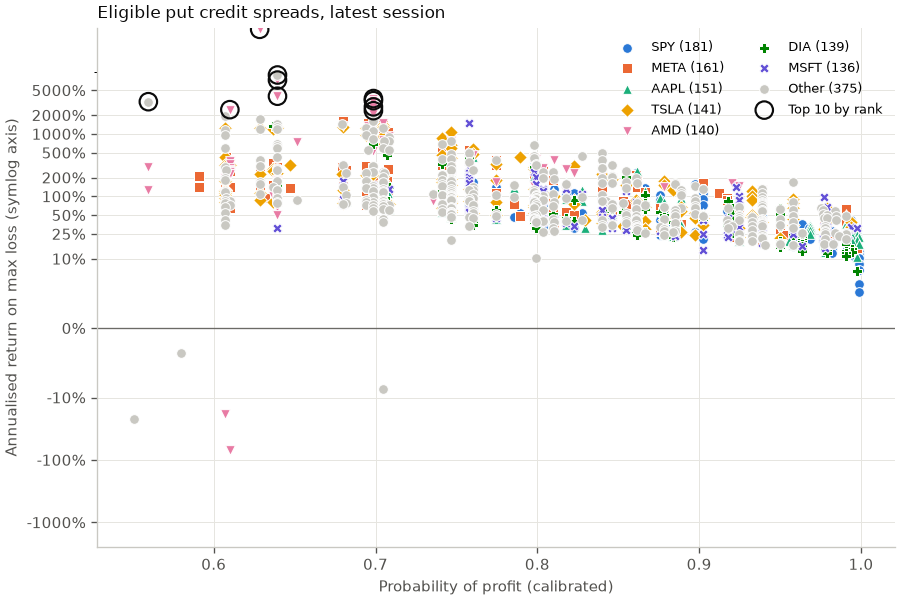
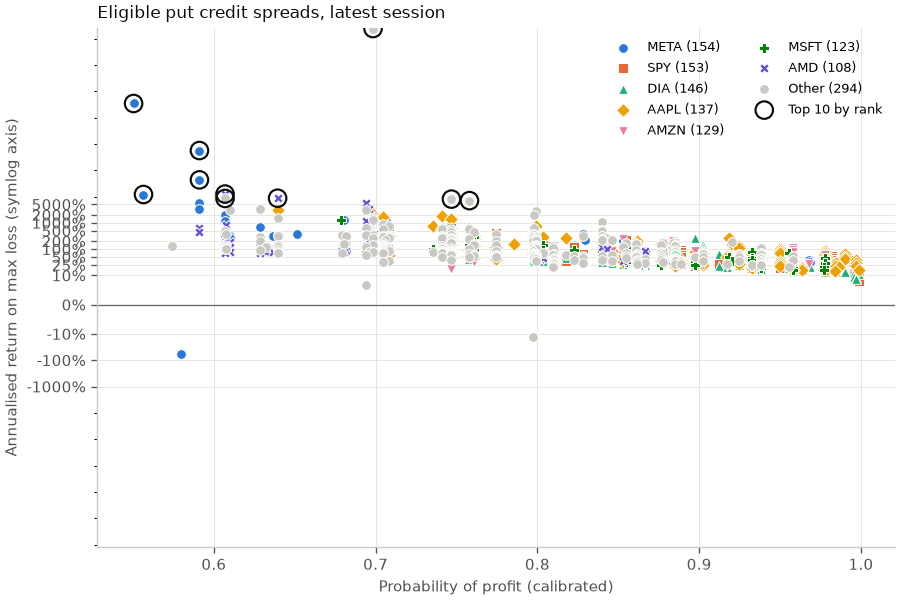
chore(results): nightly refresh through 2026-11-16

diff --git a/docs/results.md b/docs/results.md
@@ -1,24 +1,24 @@
 # Results
 
-Source: the `gold` schema of the DuckDB file built by dbt; spreads are scored as of the 2026-11-13 session.
+Source: the `gold` schema of the DuckDB file built by dbt; spreads are scored as of the 2026-11-16 session.
 
 ## Data coverage
 
 | Underlying | First session | Last session | Sessions | Chain snapshots | Settled snapshots | Predictions |
 | --- | ---: | ---: | ---: | ---: | ---: | ---: |
-| AAPL | 2020-01-06 | 2026-11-13 | 1,221 | 3,869 | 3,773 | 47,779 |
-| AMD | 2020-01-06 | 2026-11-13 | 1,218 | 3,863 | 3,766 | 47,799 |
-| AMZN | 2020-01-06 | 2026-11-13 | 1,217 | 3,858 | 3,762 | 47,472 |
-| DIA | 2020-01-06 | 2026-11-13 | 1,219 | 3,877 | 3,763 | 47,223 |
-| GOOGL | 2020-01-06 | 2026-11-13 | 1,212 | 3,844 | 3,748 | 47,335 |
-| META | 2022-07-01 | 2026-11-13 | 852 | 2,762 | 2,665 | 33,568 |
-| MSFT | 2020-01-06 | 2026-11-13 | 1,207 | 3,823 | 3,728 | 47,059 |
-| NVDA | 2020-01-06 | 2026-11-13 | 1,216 | 3,846 | 3,752 | 46,919 |
-| SPY | 2020-01-06 | 2026-11-13 | 1,209 | 3,873 | 3,769 | 46,787 |
-| TSLA | 2021-01-04 | 2026-11-13 | 1,067 | 3,401 | 3,305 | 41,785 |
-| XLF | 2020-01-06 | 2026-11-13 | 1,209 | 3,846 | 3,747 | 47,419 |
+| AAPL | 2020-01-06 | 2026-11-16 | 1,222 | 3,873 | 3,774 | 47,791 |
+| AMD | 2020-01-06 | 2026-11-16 | 1,219 | 3,867 | 3,767 | 47,799 |
+| AMZN | 2020-01-06 | 2026-11-16 | 1,218 | 3,862 | 3,764 | 47,498 |
+| DIA | 2020-01-06 | 2026-11-16 | 1,220 | 3,881 | 3,763 | 47,223 |
+| GOOGL | 2020-01-06 | 2026-11-16 | 1,213 | 3,848 | 3,750 | 47,361 |
+| META | 2022-07-01 | 2026-11-16 | 853 | 2,766 | 2,667 | 33,585 |
+| MSFT | 2020-01-06 | 2026-11-16 | 1,208 | 3,827 | 3,729 | 47,067 |
+| NVDA | 2020-01-06 | 2026-11-16 | 1,217 | 3,850 | 3,754 | 46,945 |
+| SPY | 2020-01-06 | 2026-11-16 | 1,210 | 3,877 | 3,770 | 46,794 |
+| TSLA | 2021-01-04 | 2026-11-16 | 1,068 | 3,405 | 3,306 | 41,798 |
+| XLF | 2020-01-06 | 2026-11-16 | 1,210 | 3,850 | 3,748 | 47,432 |
 
-In total: 1,873,088 quotes on 536,340 contracts, in 40,862 chain snapshots (an underlying, a trade date and an expiration).
+In total: 1,875,134 quotes on 537,106 contracts, in 40,906 chain snapshots (an underlying, a trade date and an expiration).
 
 ## Snapshot exclusions
 
@@ -26,8 +26,8 @@ Every chain snapshot is classified; only `ok` snapshots produce predictions. Sna
 
 | Status | Snapshots | Share | Meaning |
 | --- | ---: | ---: | --- |
-| `ok` | 39,543 | 96.8% | enters the calibration sample |
-| `unsettled` | 1,084 | 2.7% | the expiration is after the last priced session, so there is no outcome yet |
+| `ok` | 39,557 | 96.7% | enters the calibration sample |
+| `unsettled` | 1,114 | 2.7% | the expiration is after the last priced session, so there is no outcome yet |
 | `too_few_puts` | 6 | 0.0% | fewer than 4 usable puts (a positive bid and an ask at or above the bid) |
 | `no_close` | 15 | 0.0% | no official close of the underlying on the trade date |
 | `split_in_window` | 214 | 0.5% | a split between the trade date and settlement (closes are unadjusted) |
@@ -39,16 +39,16 @@ Each year's map is fitted only on predictions that had expired before 1 January 
 | Metric | Risk-neutral | Calibrated | Change |
 | --- | ---: | ---: | ---: |
 | Brier score | 0.1266 | 0.1292 | +0.0026 |
-| Log loss (nats) | 0.3918 | 0.3965 | +0.0046 |
-| Expected calibration error | 0.0333 | 0.0181 | -0.0153 |
+| Log loss (nats) | 0.3919 | 0.3965 | +0.0047 |
+| Expected calibration error | 0.0333 | 0.0181 | -0.0152 |
 
-Brier change +0.0026 (95% cluster-bootstrap interval -0.0001 to +0.0056, resampling expiration dates; negative means calibration helped) over 453,612 predictions, 35,629 snapshots and 892 expiration clusters. Predictions that resolve on the same date share one market move, so the effective sample is closer to the number of clusters than to the number of predictions.
+Brier change +0.0026 (95% cluster-bootstrap interval -0.0004 to +0.0052, resampling expiration dates; negative means calibration helped) over 453,760 predictions, 35,642 snapshots and 893 expiration clusters. Predictions that resolve on the same date share one market move, so the effective sample is closer to the number of clusters than to the number of predictions.
 
 ### By days to expiration
 
 | DTE bucket | Predictions | Brier raw | Brier calibrated | ECE raw | ECE calibrated |
 | --- | ---: | ---: | ---: | ---: | ---: |
-| <=20d | 144,081 | 0.1020 | 0.1046 | 0.0184 | 0.0227 |
+| <=20d | 144,229 | 0.1021 | 0.1047 | 0.0183 | 0.0228 |
 | 21-35d | 144,654 | 0.1277 | 0.1310 | 0.0299 | 0.0234 |
 | 36-50d | 85,984 | 0.1475 | 0.1493 | 0.0460 | 0.0149 |
 | >50d | 78,893 | 0.1466 | 0.1489 | 0.0540 | 0.0140 |
@@ -57,17 +57,17 @@ Brier change +0.0026 (95% cluster-bootstrap interval -0.0001 to +0.0056, resampl
 
 | Underlying | Predictions | Brier raw | Brier calibrated | ECE raw | ECE calibrated |
 | --- | ---: | ---: | ---: | ---: | ---: |
-| AAPL | 42,793 | 0.1188 | 0.1196 | 0.0426 | 0.0156 |
+| AAPL | 42,805 | 0.1188 | 0.1196 | 0.0426 | 0.0156 |
 | AMD | 42,373 | 0.1813 | 0.1858 | 0.0385 | 0.0419 |
-| AMZN | 42,110 | 0.1348 | 0.1398 | 0.0282 | 0.0276 |
+| AMZN | 42,136 | 0.1348 | 0.1398 | 0.0282 | 0.0275 |
 | DIA | 41,828 | 0.0624 | 0.0629 | 0.0263 | 0.0157 |
-| GOOGL | 42,055 | 0.1330 | 0.1330 | 0.0490 | 0.0161 |
-| META | 33,568 | 0.1538 | 0.1563 | 0.0415 | 0.0183 |
-| MSFT | 41,951 | 0.1185 | 0.1221 | 0.0213 | 0.0271 |
-| NVDA | 41,515 | 0.1586 | 0.1582 | 0.0740 | 0.0176 |
-| SPY | 41,502 | 0.0687 | 0.0696 | 0.0268 | 0.0107 |
-| TSLA | 41,785 | 0.1817 | 0.1913 | 0.0094 | 0.0638 |
-| XLF | 42,132 | 0.0857 | 0.0871 | 0.0225 | 0.0205 |
+| GOOGL | 42,081 | 0.1329 | 0.1330 | 0.0490 | 0.0160 |
+| META | 33,585 | 0.1537 | 0.1562 | 0.0415 | 0.0182 |
+| MSFT | 41,959 | 0.1185 | 0.1221 | 0.0213 | 0.0271 |
+| NVDA | 41,541 | 0.1588 | 0.1585 | 0.0735 | 0.0179 |
+| SPY | 41,509 | 0.0687 | 0.0696 | 0.0268 | 0.0108 |
+| TSLA | 41,798 | 0.1817 | 0.1913 | 0.0094 | 0.0638 |
+| XLF | 42,145 | 0.0857 | 0.0871 | 0.0225 | 0.0205 |
 
 ### By fold year
 
@@ -78,7 +78,7 @@ Brier change +0.0026 (95% cluster-bootstrap interval -0.0001 to +0.0056, resampl
 | 2023 | 61,525 | 0.1181 | 0.1135 | 0.0964 | 0.0768 |
 | 2024 | 70,651 | 0.1158 | 0.1123 | 0.0534 | 0.0163 |
 | 2025 | 107,205 | 0.1248 | 0.1232 | 0.0371 | 0.0118 |
-| 2026 | 102,019 | 0.1265 | 0.1267 | 0.0245 | 0.0209 |
+| 2026 | 102,167 | 0.1266 | 0.1267 | 0.0244 | 0.0209 |
 
 ## Reliability
 
@@ -86,18 +86,18 @@ Brier change +0.0026 (95% cluster-bootstrap interval -0.0001 to +0.0056, resampl
 
 | Bin | n raw | Predicted raw | Realised raw | n calibrated | Predicted calibrated | Realised calibrated |
 | --- | ---: | ---: | ---: | ---: | ---: | ---: |
-| 0.0-0.1 | 137,798 | 0.0363 | 0.0190 | 168,882 | 0.0317 | 0.0394 |
-| 0.1-0.2 | 56,308 | 0.1469 | 0.1127 | 62,727 | 0.1481 | 0.1923 |
-| 0.2-0.3 | 40,594 | 0.2471 | 0.2078 | 39,549 | 0.2568 | 0.2829 |
-| 0.3-0.4 | 33,154 | 0.3502 | 0.2991 | 30,662 | 0.3606 | 0.4044 |
-| 0.4-0.5 | 35,692 | 0.4517 | 0.4051 | 25,062 | 0.4464 | 0.4707 |
-| 0.5-0.6 | 27,710 | 0.5529 | 0.5008 | 28,634 | 0.5471 | 0.5684 |
-| 0.6-0.7 | 33,343 | 0.6504 | 0.5971 | 32,576 | 0.6544 | 0.6609 |
-| 0.7-0.8 | 31,028 | 0.7481 | 0.6927 | 21,154 | 0.7503 | 0.7537 |
-| 0.8-0.9 | 25,095 | 0.8481 | 0.8186 | 16,689 | 0.8509 | 0.8640 |
-| 0.9-1.0 | 32,890 | 0.9620 | 0.9564 | 27,677 | 0.9674 | 0.9677 |
+| 0.0-0.1 | 137,848 | 0.0363 | 0.0191 | 168,934 | 0.0317 | 0.0394 |
+| 0.1-0.2 | 56,322 | 0.1469 | 0.1128 | 62,750 | 0.1481 | 0.1923 |
+| 0.2-0.3 | 40,606 | 0.2471 | 0.2078 | 39,559 | 0.2568 | 0.2829 |
+| 0.3-0.4 | 33,163 | 0.3502 | 0.2991 | 30,670 | 0.3606 | 0.4044 |
+| 0.4-0.5 | 35,700 | 0.4517 | 0.4050 | 25,069 | 0.4464 | 0.4707 |
+| 0.5-0.6 | 27,719 | 0.5529 | 0.5008 | 28,640 | 0.5471 | 0.5684 |
+| 0.6-0.7 | 33,351 | 0.6504 | 0.5971 | 32,588 | 0.6544 | 0.6610 |
+| 0.7-0.8 | 31,038 | 0.7481 | 0.6928 | 21,161 | 0.7504 | 0.7538 |
+| 0.8-0.9 | 25,108 | 0.8481 | 0.8187 | 16,698 | 0.8509 | 0.8641 |
+| 0.9-1.0 | 32,905 | 0.9620 | 0.9564 | 27,691 | 0.9674 | 0.9677 |
 
-## Top 10 to enter (2026-11-13)
+## Top 10 to enter (2026-11-16)
 
 Passes every guard (eligible, calibrated POP ≥ 65%, credit ≥ $0.25, natural credit ≥ 50% of mid with positive natural edge, inside quoted strikes, no tail flags), 45 to 69 days to expiry, short strike 95% to below 100% of the close, ranked by annualised natural return with the POP shrunk halfway toward the market-implied POP, then annualised return on max loss and reward/risk.
 
@@ -105,75 +105,75 @@ On the rule lab's 2025-2026 hold-out, measured on 2026-10-19, this rule made 4,0
 
 | Rank | Underlying | Session | Expiration | DTE | Short/long | Natural credit | Mid credit | POP calibrated | Expected return on max loss | Annualised return on max loss | Edge (% of mid) | Reward/risk | Entry score (annualised) |
 | --- | ---: | ---: | ---: | ---: | ---: | ---: | ---: | ---: | ---: | ---: | ---: | ---: | ---: |
-| 1 | AMZN | 2026-11-13 | 2027-01-15 | 63 | 265/250 | 5.45 | 5.60 | 68.1% | 10.37% | 77.2% | 16.4% | 0.14 | 16.9% |
-| 2 | AMZN | 2026-11-13 | 2027-01-15 | 63 | 265/245 | 6.80 | 6.97 | 69.9% | 9.79% | 71.8% | 17.1% | 0.14 | 13.9% |
-| 3 | AMZN | 2026-11-13 | 2027-01-15 | 63 | 260/250 | 3.30 | 3.45 | 70.5% | 10.58% | 79.1% | 18.9% | 0.15 | 8.8% |
-| 4 | AMZN | 2026-11-13 | 2027-01-15 | 63 | 260/240 | 5.75 | 5.93 | 74.1% | 8.71% | 62.2% | 19.2% | 0.14 | 8.3% |
-| 5 | SPY | 2026-11-13 | 2027-01-15 | 63 | 740/730 | 2.29 | 2.41 | 79.9% | 6.76% | 46.1% | 19.4% | 0.12 | 6.2% |
-| 6 | SPY | 2026-11-13 | 2027-01-15 | 63 | 745/725 | 4.73 | 4.87 | 78.6% | 6.96% | 47.7% | 19.7% | 0.13 | 6.0% |
-| 7 | AMZN | 2026-11-13 | 2027-01-15 | 63 | 265/240 | 7.90 | 8.07 | 70.5% | 8.91% | 63.9% | 17.4% | 0.14 | 5.9% |
-| 8 | SPY | 2026-11-13 | 2027-01-15 | 63 | 745/730 | 3.72 | 3.86 | 77.5% | 7.08% | 48.6% | 18.7% | 0.12 | 5.3% |
-| 9 | SPY | 2026-11-13 | 2027-01-15 | 63 | 730/710 | 3.34 | 3.44 | 85.3% | 5.34% | 35.2% | 22.8% | 0.12 | 5.2% |
-| 10 | AAPL | 2026-11-13 | 2027-01-15 | 63 | 355/345 | 3.34 | 3.57 | 69.9% | 10.66% | 79.9% | 18.1% | 0.15 | 4.3% |
+| 1 | GOOGL | 2026-11-16 | 2027-01-15 | 60 | 280/260 | 6.20 | 6.62 | 74.1% | 9.19% | 70.8% | 17.4% | 0.14 | 13.8% |
+| 2 | SPY | 2026-11-16 | 2027-01-15 | 60 | 735/725 | 2.91 | 3.02 | 74.7% | 8.70% | 66.1% | 18.8% | 0.13 | 12.3% |
+| 3 | GOOGL | 2026-11-16 | 2027-01-15 | 60 | 280/255 | 7.45 | 7.90 | 74.7% | 8.90% | 68.0% | 18.0% | 0.14 | 12.2% |
+| 4 | SPY | 2026-11-16 | 2026-12-31 | 45 | 725/718 | 1.63 | 1.71 | 79.9% | 6.63% | 68.4% | 19.1% | 0.12 | 11.0% |
+| 5 | SPY | 2026-11-16 | 2026-12-31 | 45 | 733/718 | 3.96 | 4.05 | 76.1% | 7.46% | 79.3% | 19.0% | 0.13 | 10.7% |
+| 6 | SPY | 2026-11-16 | 2027-01-15 | 60 | 735/720 | 4.20 | 4.30 | 74.7% | 8.52% | 64.4% | 19.7% | 0.14 | 8.7% |
+| 7 | META | 2026-11-16 | 2026-12-31 | 45 | 625/575 | 17.24 | 18.55 | 69.4% | 10.97% | 132.6% | 17.9% | 0.16 | 8.3% |
+| 8 | SPY | 2026-11-16 | 2027-01-15 | 60 | 710/695 | 2.48 | 2.56 | 86.1% | 5.32% | 37.1% | 23.1% | 0.12 | 8.1% |
+| 9 | SPY | 2026-11-16 | 2027-01-15 | 60 | 725/710 | 3.40 | 3.49 | 79.9% | 6.74% | 48.7% | 20.3% | 0.13 | 8.0% |
+| 10 | SPY | 2026-11-16 | 2026-12-31 | 45 | 718/710 | 1.57 | 1.64 | 82.8% | 6.29% | 64.1% | 22.7% | 0.13 | 8.0% |
 
 This is a ranking of a historical calibration, not trade advice: it orders spreads by what one pooled calibration map says happened on average, pulled halfway toward the probability the price implies, and that map is optimistic (see the caveats). Credits are dollars per share; the edge is the mid credit minus the calibrated fair credit, as a share of the mid credit; reward/risk is per trade; the entry score is the annualised return on max loss at the natural credit with that shrunk probability of profit, the number the rule ranks by.
 
-## Which structure serves each outcome (2026-11-13)
+## Which structure serves each outcome (2026-11-16)
 
 | Underlying | Expiry (DTE) | Up, above the 75th percentile | Up, moderately (55th to 85th) | Flat (25th to 75th) | Down, moderately (15th to 45th) | Down, below the 25th percentile | Big move, outside the 10th to 90th |
 | --- | --- | --- | --- | --- | --- | --- | --- |
-| AAPL | 2026-12-24 (41d) | long call `+1 C 380`, +353.9% | bull call spread `+1 C 365 / -1 C 380`, +101.4% | iron condor `-1 P 355 / +1 P 340 / -1 C 370 / +1 C 385`, +58.5% | iron condor `-1 P 340 / +1 P 330 / -1 C 360 / +1 C 370`, +83.3% | bear put spread `+1 P 350 / -1 P 330`, +187.2% | long strangle `+1 P 305 / +1 C 385`, +250.5% |
-| AMD | 2026-12-24 (41d) | long call `+1 C 600`, +300.7% | bull put spread `-1 P 585 / +1 P 535`, +107.0% | iron condor `-1 P 500 / +1 P 455 / -1 C 585 / +1 C 630`, +48.8% | iron condor `-1 P 440 / +1 P 400 / -1 C 535 / +1 C 575`, +84.9% | long put `+1 P 490`, +180.4% | long strangle `+1 P 455 / +1 C 600`, +204.3% |
-| AMZN | 2026-12-24 (41d) | long call `+1 C 290`, +348.2% | bull call spread `+1 C 265 / -1 C 290`, +104.3% | iron condor `-1 P 260 / +1 P 245 / -1 C 285 / +1 C 300`, +56.7% | iron condor `-1 P 255 / +1 P 235 / -1 C 270 / +1 C 290`, +61.4% | bear put spread `+1 P 255 / -1 P 235`, +184.2% | long strangle `+1 P 245 / +1 C 290`, +205.1% |
-| DIA | 2026-12-24 (41d) | long call `+1 C 544`, +349.8% | bull call spread `+1 C 528 / -1 C 544`, +105.5% | iron condor `-1 P 523 / +1 P 513 / -1 C 534 / +1 C 544`, +52.9% | iron condor `-1 P 513 / +1 P 502 / -1 C 528 / +1 C 539`, +73.4% | bear put spread `+1 P 518 / -1 P 490`, +181.4% | long call `+1 C 544`, +335.4% |
-| GOOGL | 2026-12-24 (41d) | bull call spread `+1 C 320 / -1 C 340`, +335.2% | bull call spread `+1 C 300 / -1 C 320`, +117.7% | iron condor `-1 P 295 / +1 P 270 / -1 C 310 / +1 C 335`, +70.0% | iron condor `-1 P 270 / +1 P 260 / -1 C 300 / +1 C 310`, +86.5% | bear put spread `+1 P 285 / -1 P 260`, +195.1% | long strangle `+1 P 260 / +1 C 335`, +250.5% |
-| META | 2026-12-24 (41d) | long call `+1 C 695`, +329.2% | bull call spread `+1 C 640 / -1 C 695`, +120.3% | iron condor `-1 P 635 / +1 P 580 / -1 C 665 / +1 C 720`, +71.1% | iron condor `-1 P 590 / +1 P 560 / -1 C 650 / +1 C 680`, +88.3% | bear put spread `+1 P 605 / -1 P 545`, +188.2% | long strangle `+1 P 560 / +1 C 720`, +248.2% |
-| MSFT | 2026-12-24 (41d) | bull put spread `-1 P 615 / +1 P 565`, +319.1% | bull put spread `-1 P 575 / +1 P 530`, +107.2% | iron condor `-1 P 520 / +1 P 490 / -1 C 545 / +1 C 575`, +50.9% | iron condor `-1 P 490 / +1 P 460 / -1 C 525 / +1 C 555`, +65.7% | bear put spread `+1 P 505 / -1 P 460`, +163.7% | long call `+1 C 575`, +330.0% |
-| NVDA | 2026-12-24 (41d) | bull call spread `+1 C 190 / -1 C 205`, +354.1% | bull call spread `+1 C 165 / -1 C 180`, +125.0% | iron condor `-1 P 160 / +1 P 145 / -1 C 175 / +1 C 190`, +85.1% | iron condor `-1 P 145 / +1 P 135 / -1 C 165 / +1 C 175`, +110.3% | bear put spread `+1 P 150 / -1 P 135`, +197.7% | long call `+1 C 195`, +336.5% |
-| SPY | 2026-12-24 (41d) | long call `+1 C 785`, +487.2% | bull call spread `+1 C 769 / -1 C 777`, +132.3% | iron condor `-1 P 747 / +1 P 739 / -1 C 777 / +1 C 785`, +72.3% | iron condor `-1 P 732 / +1 P 725 / -1 C 762 / +1 C 769`, +149.6% | bear put spread `+1 P 747 / -1 P 710`, +208.9% | long call `+1 C 785`, +473.0% |
-| TSLA | 2026-12-24 (41d) | long call `+1 C 430`, +333.7% | bull call spread `+1 C 400 / -1 C 420`, +120.6% | iron condor `-1 P 390 / +1 P 360 / -1 C 420 / +1 C 450`, +74.6% | iron condor `-1 P 360 / +1 P 340 / -1 C 395 / +1 C 415`, +101.3% | bear put spread `+1 P 365 / -1 P 330`, +192.3% | long call `+1 C 460`, +363.8% |
-| XLF | 2026-12-24 (41d) | long call `+1 C 60`, +186.7% | bull call spread `+1 C 57.5 / -1 C 61`, +63.8% | iron condor `-1 P 57.5 / +1 P 54 / -1 C 61 / +1 C 64.5`, +12.6% | bear put spread `+1 P 59.5 / -1 P 57.5`, +72.7% | long put `+1 P 58`, +105.4% | long strangle `+1 P 50 / +1 C 60`, +152.7% |
+| AAPL | 2026-12-11 (25d) | long call `+1 C 375`, +342.9% | bull call spread `+1 C 360 / -1 C 375`, +100.5% | iron condor `-1 P 350 / +1 P 340 / -1 C 365 / +1 C 375`, +54.4% | iron condor `-1 P 340 / +1 P 330 / -1 C 355 / +1 C 365`, +96.3% | bear put spread `+1 P 350 / -1 P 320`, +181.4% | long strangle `+1 P 300 / +1 C 380`, +299.4% |
+| AMD | 2026-12-11 (25d) | long call `+1 C 630`, +414.2% | bull call spread `+1 C 515 / -1 C 565`, +99.7% | iron condor `-1 P 490 / +1 P 440 / -1 C 545 / +1 C 595`, +56.4% | iron condor `-1 P 455 / +1 P 405 / -1 C 505 / +1 C 555`, +78.4% | long put `+1 P 465`, +175.0% | long call `+1 C 630`, +503.8% |
+| AMZN | 2026-12-11 (25d) | bull call spread `+1 C 280 / -1 C 305`, +341.3% | bull call spread `+1 C 265 / -1 C 275`, +109.7% | iron condor `-1 P 255 / +1 P 240 / -1 C 270 / +1 C 285`, +68.8% | iron condor `-1 P 240 / +1 P 230 / -1 C 260 / +1 C 270`, +108.3% | bear put spread `+1 P 250 / -1 P 230`, +190.4% | long strangle `+1 P 230 / +1 C 285`, +247.6% |
+| DIA | 2026-12-11 (25d) | long call `+1 C 536`, +382.3% | bull put spread `-1 P 531 / +1 P 521`, +116.3% | iron condor `-1 P 511 / +1 P 495 / -1 C 531 / +1 C 547`, +44.7% | iron condor `-1 P 505 / +1 P 495 / -1 C 516 / +1 C 526`, +112.7% | bear put spread `+1 P 511 / -1 P 485`, +186.6% | long strangle `+1 P 440 / +1 C 536`, +292.4% |
+| GOOGL | 2026-12-11 (25d) | bull call spread `+1 C 310 / -1 C 325`, +356.6% | bull call spread `+1 C 285 / -1 C 300`, +111.0% | iron condor `-1 P 280 / +1 P 270 / -1 C 300 / +1 C 310`, +67.1% | iron condor `-1 P 270 / +1 P 255 / -1 C 285 / +1 C 300`, +77.0% | bear put spread `+1 P 275 / -1 P 255`, +178.0% | long call `+1 C 310`, +353.9% |
+| META | 2026-12-11 (25d) | bull call spread `+1 C 690 / -1 C 750`, +351.2% | bull call spread `+1 C 640 / -1 C 675`, +118.2% | iron condor `-1 P 615 / +1 P 590 / -1 C 665 / +1 C 690`, +78.3% | iron condor `-1 P 590 / +1 P 550 / -1 C 635 / +1 C 675`, +90.2% | bear put spread `+1 P 600 / -1 P 550`, +199.4% | long strangle `+1 P 550 / +1 C 705`, +270.1% |
+| MSFT | 2026-12-11 (25d) | long call `+1 C 550`, +362.9% | bull put spread `-1 P 550 / +1 P 520`, +102.3% | iron condor `-1 P 515 / +1 P 485 / -1 C 540 / +1 C 570`, +48.8% | iron condor `-1 P 495 / +1 P 465 / -1 C 520 / +1 C 550`, +68.8% | bear put spread `+1 P 510 / -1 P 475`, +165.6% | long call `+1 C 560`, +377.7% |
+| NVDA | 2026-12-11 (25d) | bull call spread `+1 C 180 / -1 C 195`, +374.5% | bull call spread `+1 C 160 / -1 C 170`, +137.6% | iron condor `-1 P 150 / +1 P 140 / -1 C 170 / +1 C 180`, +90.7% | iron condor `-1 P 135 / +1 P 130 / -1 C 160 / +1 C 165`, +120.6% | bear put spread `+1 P 140 / -1 P 125`, +206.6% | long strangle `+1 P 135 / +1 C 175`, +244.8% |
+| SPY | 2026-12-11 (25d) | long call `+1 C 770`, +525.0% | bull call spread `+1 C 755 / -1 C 762`, +140.0% | iron condor `-1 P 733 / +1 P 725 / -1 C 762 / +1 C 770`, +76.3% | iron condor `-1 P 725 / +1 P 710 / -1 C 740 / +1 C 755`, +176.0% | bear put spread `+1 P 733 / -1 P 720`, +214.4% | long strangle `+1 P 630 / +1 C 770`, +330.6% |
+| TSLA | 2026-12-11 (25d) | long call `+1 C 420`, +346.0% | bull call spread `+1 C 390 / -1 C 410`, +120.3% | iron condor `-1 P 375 / +1 P 350 / -1 C 395 / +1 C 420`, +78.2% | iron condor `-1 P 355 / +1 P 340 / -1 C 380 / +1 C 395`, +114.5% | bear put spread `+1 P 365 / -1 P 330`, +194.0% | long strangle `+1 P 325 / +1 C 435`, +260.9% |
+| XLF | 2026-12-11 (25d) | long call `+1 C 60`, +174.1% | bull call spread `+1 C 57.5 / -1 C 60.5`, +48.9% | bear call spread `-1 C 58 / +1 C 63`, +5.9% | bear call spread `-1 C 57 / +1 C 60`, +56.7% | long put `+1 P 59.5`, +177.7% | long put `+1 P 57`, +383.0% |
 
 Fill: natural (long legs at the ask, short legs at the bid); target 35 days to expiry, using each underlying's expiry with a distribution nearest to it; calibration map `production`. Each cell is the structure kind with the highest return if right among those whose probability of profit given the outcome is at least 50%, its legs (signed quantity, right, strike) and its return if right: the expected profit and loss on max loss when the price at expiry lands in the outcome's range. The outcomes are quantile ranges of the calibrated distribution. This is a measurement of how each structure pays under each outcome, not advice; the same numbers are on the Structures tab (`/api/structures/map`).
 
-## Top put credit spreads (2026-11-13)
+## Top put credit spreads (2026-11-16)
 
 | Rank | Underlying | Session | Expiration | DTE | Short/long | Mid credit | Natural credit | POP calibrated | POP risk-neutral | Expected return on max loss | Annualised return on max loss |
 | --- | ---: | ---: | ---: | ---: | ---: | ---: | ---: | ---: | ---: | ---: | ---: |
-| 1 | AMD | 2026-11-13 | 2026-11-27 | 14 | 530/525 | 2.50 | 0.60 | 62.8% | 57.7% | 26.68% | 47487.0% |
-| 2 | GOOGL | 2026-11-13 | 2026-11-27 | 14 | 290/287.5 | 1.08 | 0.30 | 63.9% | 59.4% | 18.79% | 8811.9% |
-| 3 | AMD | 2026-11-13 | 2026-11-27 | 14 | 530/520 | 4.52 | 3.10 | 63.9% | 58.4% | 17.95% | 7306.9% |
-| 4 | AMD | 2026-11-13 | 2026-11-27 | 14 | 530/515 | 6.38 | 5.10 | 63.9% | 59.0% | 15.34% | 4027.0% |
-| 5 | AMD | 2026-11-13 | 2026-11-27 | 14 | 530/500 | 12.05 | 10.10 | 69.9% | 62.1% | 14.97% | 3696.3% |
-| 6 | AMD | 2026-11-13 | 2026-11-27 | 14 | 515/500 | 5.68 | 3.50 | 69.9% | 62.3% | 14.63% | 3413.1% |
-| 7 | NVDA | 2026-11-13 | 2026-11-27 | 14 | 162.5/160 | 1.24 | 1.10 | 56.0% | 50.1% | 14.47% | 3289.6% |
-| 8 | AMD | 2026-11-13 | 2026-11-27 | 14 | 520/500 | 7.53 | 5.20 | 69.9% | 62.3% | 13.66% | 2715.6% |
-| 9 | AMD | 2026-11-13 | 2026-12-11 | 28 | 515/500 | 7.50 | 4.55 | 61.0% | 56.6% | 28.21% | 2452.8% |
-| 10 | AMD | 2026-11-13 | 2026-11-27 | 14 | 525/500 | 9.55 | 6.75 | 69.9% | 62.3% | 13.07% | 2361.5% |
+| 1 | TSLA | 2026-11-16 | 2026-11-30 | 14 | 370/365 | 3.32 | 0.60 | 69.8% | 62.9% | 109.63% | 24016264477.7% |
+| 2 | META | 2026-11-16 | 2026-11-30 | 14 | 625/620 | 3.35 | 0.30 | 55.0% | 46.5% | 63.03% | 34215033.1% |
+| 3 | META | 2026-11-16 | 2026-11-30 | 14 | 615/610 | 2.85 | 0.25 | 59.1% | 52.2% | 39.22% | 557619.3% |
+| 4 | META | 2026-11-16 | 2026-11-30 | 14 | 625/610 | 8.20 | 4.50 | 59.1% | 51.4% | 26.19% | 42939.6% |
+| 5 | AMD | 2026-11-16 | 2026-11-30 | 14 | 500/490 | 4.85 | 0.15 | 60.7% | 54.6% | 20.35% | 12413.6% |
+| 6 | META | 2026-11-16 | 2026-11-30 | 14 | 625/615 | 5.35 | 2.30 | 55.6% | 48.8% | 20.17% | 11923.1% |
+| 7 | AMD | 2026-11-16 | 2026-11-30 | 14 | 500/485 | 6.85 | 2.15 | 63.9% | 59.3% | 18.69% | 8615.7% |
+| 8 | NVDA | 2026-11-16 | 2026-11-30 | 14 | 155/150 | 2.42 | 1.85 | 60.7% | 52.5% | 18.61% | 8450.4% |
+| 9 | TSLA | 2026-11-16 | 2026-11-30 | 14 | 370/355 | 5.17 | 1.75 | 74.7% | 67.2% | 18.34% | 7957.5% |
+| 10 | TSLA | 2026-11-16 | 2026-11-30 | 14 | 370/350 | 6.55 | 3.55 | 75.8% | 70.4% | 17.75% | 6979.4% |
 
 Credits are dollars per share. POP is the probability the underlying settles above the breakeven; return on max loss is the expected return over the trade as a share of the maximum loss, which is the collateral held, annualised in the last column.
 
 ![Eligible spreads](img/spread_scores.png)
 
-## Top spreads by edge (2026-11-13)
+## Top spreads by edge (2026-11-16)
 
 | Rank (edge) | Underlying | Expiration | Short/long | Mid credit | Natural credit | Fair credit | Edge | Edge (% of mid) | POP calibrated | POP risk-neutral | Price-implied POP | POP gap | Reward/risk |
 | --- | ---: | ---: | ---: | ---: | ---: | ---: | ---: | ---: | ---: | ---: | ---: | ---: | ---: |
-| 1 | SPY | 2026-12-24 | 605/565 | 0.35 | 0.32 | 0.06 | +0.29 | 82.5% | 99.7% | 98.8% | 99.1% | +0.6 pp | 0.20 |
-| 2 | SPY | 2026-12-11 | 640/605 | 0.33 | 0.31 | 0.06 | +0.27 | 82.3% | 99.7% | 98.7% | 99.1% | +0.7 pp | 0.20 |
-| 3 | SPY | 2026-12-24 | 620/565 | 0.55 | 0.51 | 0.10 | +0.45 | 81.4% | 99.7% | 98.5% | 99.0% | +0.7 pp | 0.21 |
-| 4 | SPY | 2026-12-11 | 660/605 | 0.65 | 0.62 | 0.13 | +0.52 | 80.7% | 99.4% | 97.9% | 98.8% | +0.6 pp | 0.23 |
-| 5 | SPY | 2026-12-11 | 660/620 | 0.53 | 0.50 | 0.10 | +0.43 | 80.3% | 99.4% | 97.9% | 98.7% | +0.8 pp | 0.23 |
+| 1 | SPY | 2026-12-11 | 610/555 | 0.45 | 0.43 | 0.09 | +0.36 | 81.0% | 99.7% | 98.8% | 99.2% | +0.5 pp | 0.18 |
+| 2 | SPY | 2026-12-11 | 630/590 | 0.50 | 0.48 | 0.10 | +0.40 | 80.6% | 99.6% | 98.2% | 98.8% | +0.8 pp | 0.22 |
+| 3 | SPY | 2026-11-30 | 647/610 | 0.26 | 0.25 | 0.05 | +0.21 | 80.1% | 99.8% | 98.9% | 99.3% | +0.5 pp | 0.15 |
+| 4 | SPY | 2026-12-11 | 630/610 | 0.29 | 0.27 | 0.06 | +0.23 | 79.6% | 99.6% | 98.2% | 98.5% | +1.0 pp | 0.22 |
+| 5 | SPY | 2026-11-30 | 666/629 | 0.42 | 0.41 | 0.09 | +0.33 | 79.4% | 99.6% | 98.0% | 98.9% | +0.7 pp | 0.21 |
 
-Edge measures the mid credit against one pooled calibration map, so it is the historical variance risk premium applied to this chain, not a contract-specific mispricing; it is correlated across strikes, concentrated in the far tail, and partly the half-spread the natural credit gives up. Price-implied POP is the maximum loss over the width, the probability of profit at which the price breaks even, and the POP gap is the calibrated POP minus it: the same information as the edge in probability units. Out of sample, predictions with a raw probability under 2% saw 68 breaches in 53,663, which is how thin the evidence for the far tail is.
+Edge measures the mid credit against one pooled calibration map, so it is the historical variance risk premium applied to this chain, not a contract-specific mispricing; it is correlated across strikes, concentrated in the far tail, and partly the half-spread the natural credit gives up. Price-implied POP is the maximum loss over the width, the probability of profit at which the price breaks even, and the POP gap is the calibrated POP minus it: the same information as the edge in probability units. Out of sample, predictions with a raw probability under 2% saw 71 breaches in 53,679, which is how thin the evidence for the far tail is.
 
 ## How to read this
 
-Under the risk-neutral CDF built from the same mid quotes, a spread's expected return on max loss is roughly the cash rate by construction, so any edge comes from the calibration map, which is an estimate of the variance risk premium: the gap between the probabilities the option market implies and the frequencies that followed. Across the 1,424 eligible spreads of the latest session the median annualised return is 1.0% under the risk-neutral CDF and 71.4% after calibration, against a cash rate of 3.6%.
+Under the risk-neutral CDF built from the same mid quotes, a spread's expected return on max loss is roughly the cash rate by construction, so any edge comes from the calibration map, which is an estimate of the variance risk premium: the gap between the probabilities the option market implies and the frequencies that followed. Across the 1,244 eligible spreads of the latest session the median annualised return is 1.4% under the risk-neutral CDF and 71.0% after calibration, against a cash rate of 3.6%.
 
 ## Caveats
 
-- **Correlated samples.** Each snapshot contributes up to 13 nested targets, on average 37.7 snapshots share an expiration, and the market moves together on an expiration date. The interval above resamples expiration dates for that reason.
+- **Correlated samples.** Each snapshot contributes up to 13 nested targets, on average 37.6 snapshots share an expiration, and the market moves together on an expiration date. The interval above resamples expiration dates for that reason.
 - **Sparse chains and zero bids.** Only quotes with a positive bid and an ask at or above the bid are used; 6 snapshots with fewer than 4 usable puts are excluded and counted above.
 - **Tail extrapolation.** Targets outside the strikes of a CDF are never predicted, and a spread whose long strike lies below the lowest knot is ineligible. Share of snapshots with a flagged tail: left tail uncovered 12.1%, right tail uncovered 15.1%.
 - **Splits and unadjusted closes.** Closes are as traded. 214 snapshots whose window contains a daily move beyond 0.4 in log terms are excluded.

diff --git a/README.md b/README.md
@@ -54,14 +54,14 @@ make report                          # after score_spreads finishes: docs/result
 | Out-of-sample metric | Risk-neutral | Calibrated | Change |
 | --- | ---: | ---: | ---: |
 | Brier score | 0.1266 | 0.1292 | +0.0026 |
-| Log loss (nats) | 0.3918 | 0.3965 | +0.0046 |
-| Expected calibration error | 0.0333 | 0.0181 | -0.0153 |
+| Log loss (nats) | 0.3919 | 0.3965 | +0.0047 |
+| Expected calibration error | 0.0333 | 0.0181 | -0.0152 |
 
 | Rank | Underlying | Session | Expiration | DTE | Short/long | Mid credit | Natural credit | POP calibrated | POP risk-neutral | Expected return on max loss |
 | --- | ---: | ---: | ---: | ---: | ---: | ---: | ---: | ---: | ---: | ---: |
-| 1 | AMD | 2026-11-13 | 2026-11-27 | 14 | 530/525 | 2.50 | 0.60 | 62.8% | 57.7% | 26.68% |
-| 2 | GOOGL | 2026-11-13 | 2026-11-27 | 14 | 290/287.5 | 1.08 | 0.30 | 63.9% | 59.4% | 18.79% |
-| 3 | AMD | 2026-11-13 | 2026-11-27 | 14 | 530/520 | 4.52 | 3.10 | 63.9% | 58.4% | 17.95% |
+| 1 | TSLA | 2026-11-16 | 2026-11-30 | 14 | 370/365 | 3.32 | 0.60 | 69.8% | 62.9% | 109.63% |
+| 2 | META | 2026-11-16 | 2026-11-30 | 14 | 625/620 | 3.35 | 0.30 | 55.0% | 46.5% | 63.03% |
+| 3 | META | 2026-11-16 | 2026-11-30 | 14 | 615/610 | 2.85 | 0.25 | 59.1% | 52.2% | 39.22% |
 <!-- results:end -->
 
 ![Reliability diagram of out-of-sample probabilities, risk-neutral and calibrated](docs/img/calibration.png)
